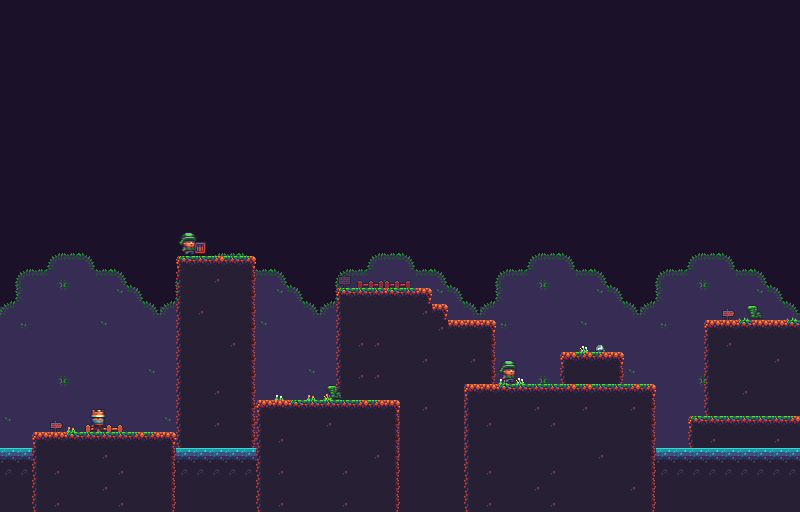
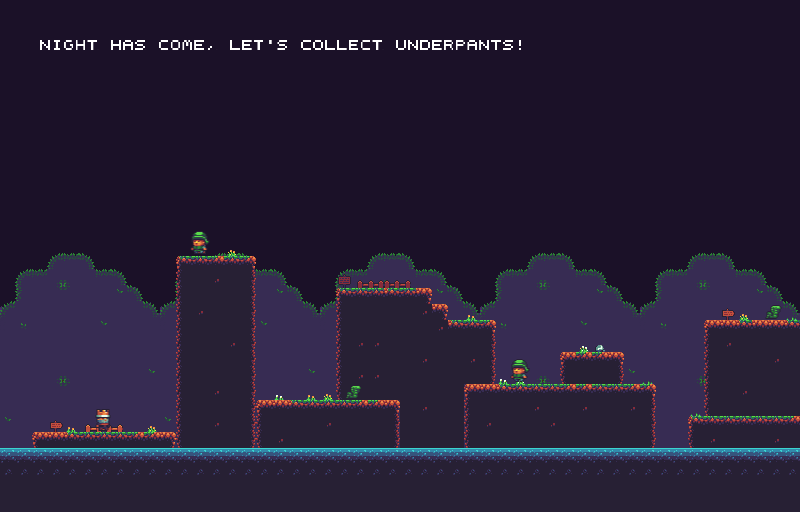
Change doc + add instructions

diff --git a/src/states/Menu.ts b/src/states/Menu.ts
@@ -13,12 +13,13 @@ export default class Menu extends Phaser.State {
     private hero: Phaser.Sprite;
     private nude: Phaser.Sprite;
     private gnome: Phaser.Sprite;
+    private commandText : Phaser.BitmapText;
 
     public create ()
     {
         this.game.stage.backgroundColor = '#1b1128';
 
-        let spaceKey = this.game.input.keyboard.addKey(Phaser.Keyboard.ENTER);
+        let spaceKey = this.game.input.keyboard.addKey(Phaser.Keyboard.SPACEBAR);
         spaceKey.onDown.add(this.startGame, this);
 
         this.titleText = this.game.add.bitmapText(40, 100, 'carrier-command','Underpants Gnomes', 27);
@@ -36,16 +37,18 @@ export default class Menu extends Phaser.State {
         this.nude.animations.add('dancing', [0, 1, 2, 3, 18, 19, 20, 21, 22, 23, 24, 25, 26], 10, true);
         this.nude.play('dancing');
 
-        this.briefingTextLine1 = this.game.add.bitmapText(40, 270, 'carrier-command','As the king of gnomes, your plan is,', 15);
-        this.briefingTextLine2 = this.game.add.bitmapText(40, 300, 'carrier-command','A) Steal underpants\n\nB) ? \n\nC) Profit', 15);
+        this.briefingTextLine1 = this.game.add.bitmapText(40, 250, 'carrier-command','As the king of gnomes, your plan is,', 15);
+        this.briefingTextLine2 = this.game.add.bitmapText(40, 290, 'carrier-command','A) Collect underpants\n\nB) ? \n\nC) Profit', 15);
 
-        this.startText = this.game.add.bitmapText(240, 410, 'carrier-command','Press Enter to start', 10);
+        this.commandText = this.game.add.bitmapText(90, 410, 'carrier-command','Use left / right keys to move and space bar to jump', 10);
 
-        this.coin1 = this.game.add.sprite(200, 407, 'coin', 0);
+        this.startText = this.game.add.bitmapText(240, 450, 'carrier-command','Press space to start', 10);
+
+        this.coin1 = this.game.add.sprite(200, 447, 'coin', 0);
         this.coin1.animations.add('flip', [0, 1, 2, 3, 4, 5, 6, 7], 10, true);
         this.coin1.play('flip');
 
-        this.coin2 = this.game.add.sprite(500, 407, 'coin', 0);
+        this.coin2 = this.game.add.sprite(500, 447, 'coin', 0);
         this.coin2.animations.add('flip', [0, 1, 2, 3, 4, 5, 6, 7], 10, true);
         this.coin2.play('flip');
     }
@@ -62,6 +65,7 @@ export default class Menu extends Phaser.State {
         this.briefingTextLine1.destroy();
         this.briefingTextLine2.destroy();
         this.startText.destroy();
+        this.commandText.destroy();
         this.coin1.destroy();
         this.coin2.destroy();
         this.hero.destroy();

diff --git a/README.md b/README.md
@@ -4,15 +4,17 @@ Small platformer game rushly developed #uglyCodeAndBugsInside with Typescript + 
 
 ![Image of GameJam](doc/game-jam-3.jpg)
 
-![Image of GameJam](doc/gnome-day.png)
-
-![Image of GameJam](doc/gnome-night.png)
-
 # Demo
 
 You can access to the demo here https://nidup.github.io/underpants-gnomes/
 
 The demo is deployed on the `gh-pages` branch versionning the `build/bundles.js` file (npm run build to update).
+
+# Screenshots
+
+![Image of GameJam](doc/gnome-day.png)
+
+![Image of GameJam](doc/gnome-night.png)
 
 # Getting Started
 
